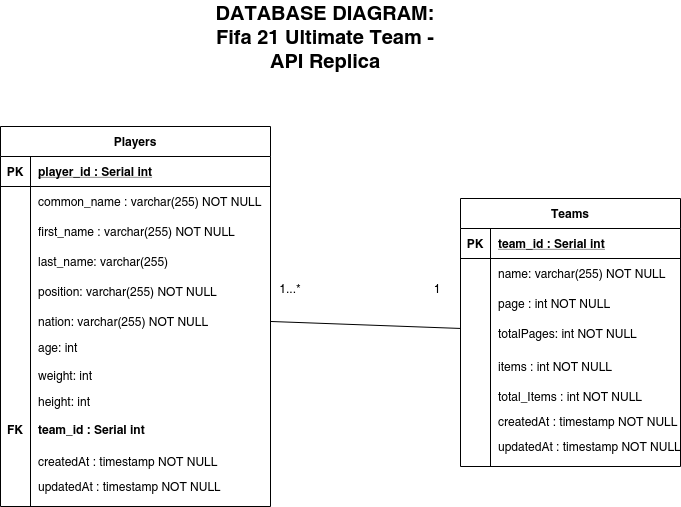
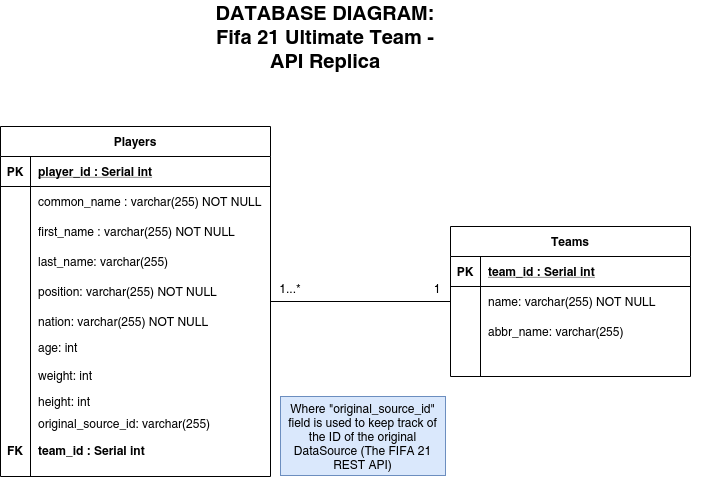
Script completed! Updating EntityRelationshipDiagram.

diff --git a/database-populator/src/tables-filler.js b/database-populator/src/tables-filler.js
@@ -1,0 +1,148 @@
+const axios = require('axios');
+const Team = require('./models/Team');
+const Player = require('./models/Player');
+
+const getPlayersData = (currentPageData) => {
+    const playersList = currentPageData.items.map( item => {
+        return {
+            common_name: item.commonName,
+            first_name: item.firstName,
+            last_name: item.lastName,
+            position: item.position,
+            nation: item.nation.name,
+            age: item.age,
+            weight: item.weight,
+            height: item.height,
+            original_source_id: item.id
+        };
+    });
+
+    return playersList;
+}
+
+
+const getTeamsData = (currentPageData) => {
+    const teamsList = currentPageData.items.map(item => {
+        return {
+            name: item.club.name,
+            abbr_name: item.club.abbrName
+        };
+    });
+
+    return teamsList;
+}
+
+// UTILITY FUNCTIONS BEGIN
+const logEachTwentyIterations = (currentIterationValue) => {
+    if (currentIterationValue % 20 === 0 || currentIterationValue === 1) {
+        console.log(`Querying the page ${currentIterationValue}...`);
+    }
+}
+
+const getURLData = async (urlToRequest) => {
+    let { data } = await axios.get (urlToRequest);
+    return data;
+}
+// UTILITY FUNCTIONS END
+
+const getDataUntilLastPage = async (loopData, API_BASE_URL) => {
+        let { 
+            currentPageData,
+            currentPageNumber, 
+            currentURL, 
+            pageItemsCount 
+        } = loopData;
+
+        let teamsData = [],
+            playersData = [];
+
+        while (pageItemsCount > 0) { 
+            logEachTwentyIterations(currentPageNumber);
+
+            teamsData.push ( getTeamsData(currentPageData) );
+            playersData.push ( getPlayersData(currentPageData) );
+
+            ++ currentPageNumber;
+            currentURL = API_BASE_URL + currentPageNumber;
+
+            currentPageData = await getURLData (currentURL);
+            pageItemsCount = currentPageData.count;
+        }
+
+        return { teamsData, playersData }
+}
+
+function formatTeamsData(teamsData) {
+    teamsData 
+}
+
+function formatPlayersData(playersData) {
+
+}
+
+const processAPIData = async (API_BASE_URL, initialPage=1) => {
+    try {
+        console.log("Starting to process the FIFA 21 API...");
+
+        let currentPageNumber = initialPage;
+        let currentURL = API_BASE_URL + currentPageNumber;
+        let currentPageData = await getURLData(currentURL);
+        let pageItemsCount = currentPageData.count;
+
+        let loopData = { currentPageData, currentPageNumber, currentURL, pageItemsCount };
+
+        let { teamsData, playersData } = await getDataUntilLastPage(
+            loopData,
+            API_BASE_URL
+        );
+
+        // format playersData and teamsData to one dimensional array.
+        teamsData = [].concat(...teamsData);
+        playersData = [].concat(...playersData);
+
+        return { teamsData, playersData };
+
+    } catch (error) {
+        console.error('An error ocurred while requesting the FIFA21 API', error);
+    }
+}
+
+const populatePlayersTable = async (playersModel, playersData) => {
+    playersData.forEach( async (playerData) => {
+        try {
+            await playersModel.create(playerData);
+        } catch (error) {
+            console.error (error);
+        }
+    });
+}
+
+const populateTeamsTable = async (teamsModel, teamsData) => {
+    teamsData.forEach( async (teamData) => {
+        try {
+            await teamsModel.create(teamData);
+        } catch (error) {
+            console.error (error);
+        }
+    });
+}
+
+const populateTables = async (tablesDataObjects) => {
+    console.log("Populating tables...");
+    const { teamsData, playersData } = tablesDataObjects;
+    try {
+        await populatePlayersTable (Player, playersData);
+        await populateTeamsTable (Team, teamsData);
+        console.log("All tables were populated succesfully...");
+        return true;
+    } catch (error) {
+        console.error(error);
+        return false;
+    }
+}
+
+
+module.exports = {
+    processAPIData,
+    populateTables,
+}

diff --git a/database-populator/src/index.js b/database-populator/src/index.js
@@ -1,21 +1,26 @@
 require('dotenv').config();  // Load environment variables
 
-const {
-    connectToDatabaseAndReturnIt,
-    createTables
-} = require('./tables-setter');
+const { connectToDatabase, sequelize } = require('./database');
+
+const { 
+    processAPIData,
+    populateTables,
+} = require('./tables-filler');
 
 const main = async () => {
-    const databaseName = process.env.DATABASE_NAME;
-    const username  = process.env.USERNAME;
-    const password = process.env.PASSWORD;
-    const sequelize = await connectToDatabaseAndReturnIt(
-        databaseName,
-        username,
-        password
-    );
 
-    createTables(sequelize);
+    try {
+        await connectToDatabase();
+        sequelize.sync();
+        const API_BASE_URL = process.env.API_BASE_URL 
+            || 'https://www.easports.com/fifa/ultimate-team/api/fut/item?page=';
+
+        const tablesDataObjects = await processAPIData(API_BASE_URL, 1);
+
+        await populateTables (tablesDataObjects);
+    } catch (error) {
+        console.error (error);
+    }
 }
 
 main();

diff --git a/database-populator/src/models/Team.js b/database-populator/src/models/Team.js
@@ -1,6 +1,8 @@
 const { DataTypes } = require('sequelize');
+const { sequelize } = require('../database');
+const Player = require('./Player');
 
-module.exports = (sequelize) => sequelize.define('Team', {
+const Team = sequelize.define('Team', {
     team_id: {
         type: DataTypes.INTEGER,
         autoIncrement: true,
@@ -10,22 +12,13 @@ module.exports = (sequelize) => sequelize.define('Team', {
         type: DataTypes.STRING,
         allowNull: false
     },
-    page: {
-        type: DataTypes.INTEGER,
-        allowNull: false
-    },
-    total_pages: {
-        type: DataTypes.INTEGER,
-        allowNull: false
-    },
-    items: {
-        type: DataTypes.INTEGER,
-        allowNull: false
-    },
-    total_items: {
-        type: DataTypes.INTEGER,
-        allowNull: false
+    abbr_name: {
+        type: DataTypes.STRING,
     },
 }, {
-    // Other model options go here
+    timestamps: false
 });
+
+Team.hasMany(Player, { foreignKey: 'team_id' });
+
+module.exports = Team;

diff --git a/database-populator/src/database.js b/database-populator/src/database.js
@@ -1,0 +1,26 @@
+const { Sequelize } = require('sequelize');
+
+const databaseName = process.env.DATABASE_NAME;
+const username  = process.env.USERNAME;
+const password = process.env.PASSWORD;
+
+const sequelize = new Sequelize(databaseName, username, password, {
+    host: process.env.DATABASE_HOST || 'localhost',
+    dialect: process.env.DATABASE_DIALECT || 'postgres',
+    logging: false
+});
+
+async function connectToDatabase () {
+    try {
+        await sequelize.authenticate();
+        console.error('Connection has been established succesfully');
+    } catch (error) {
+        console.error('Unable to connect to the database', error);
+    }
+}
+
+
+module.exports = {
+    sequelize,
+    connectToDatabase
+}; 

diff --git a/database-populator/src/models/Player.js b/database-populator/src/models/Player.js
@@ -1,6 +1,7 @@
 const { DataTypes } = require('sequelize');
+const { sequelize } = require('../database');
 
-module.exports = (sequelize) => sequelize.define('Player', {
+const Player = sequelize.define('Player', {
     common_name: {
         type: DataTypes.STRING,
         allowNull: false
@@ -29,6 +30,14 @@ module.exports = (sequelize) => sequelize.define('Player', {
     height: {
         type: DataTypes.INTEGER,
     },
+    original_source_id: {
+        type: DataTypes.STRING,
+    },
+    team_id: {
+        type: DataTypes.INTEGER,
+    },
 }, {
-    // Other model options go here
+    timestamps: false
 });
+
+module.exports = Player;
